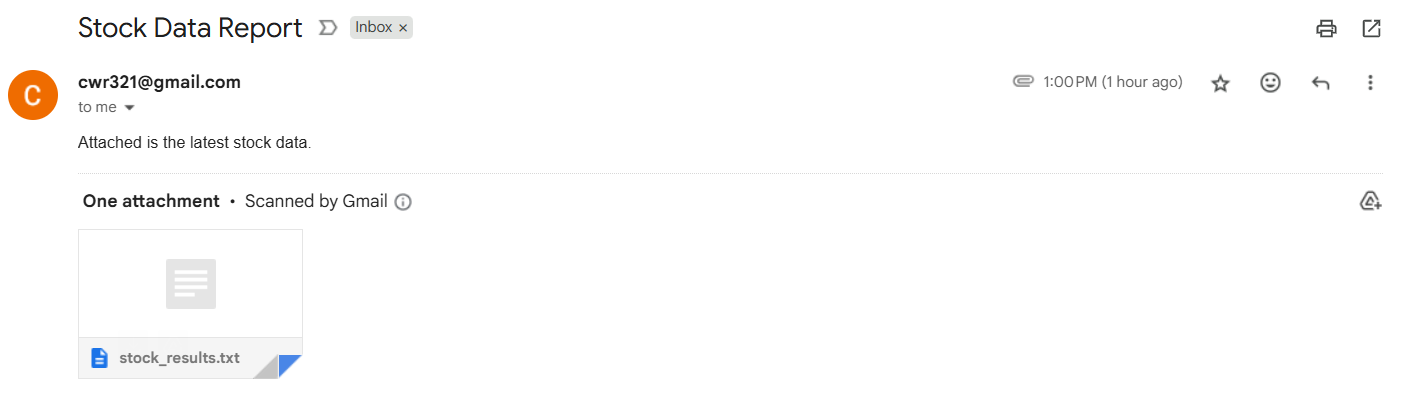
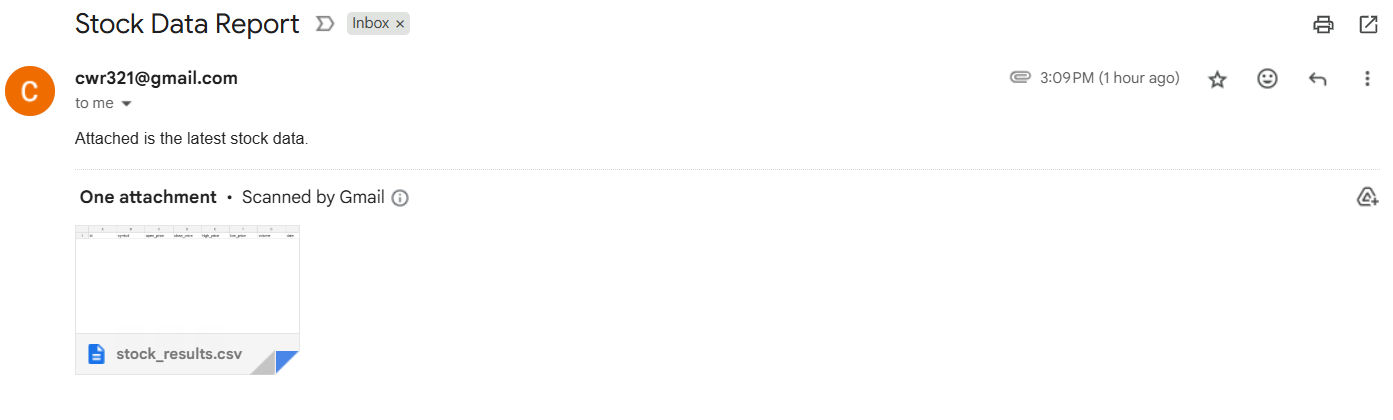
visuals added to output and email

diff --git a/dags/scripts/analyze_buy_signals.py b/dags/scripts/analyze_buy_signals.py
@@ -1,0 +1,73 @@
+import pandas as pd
+import matplotlib.pyplot as plt
+import seaborn as sns
+import os
+
+# Create output directory if it doesn't exist
+os.makedirs("output", exist_ok=True)
+
+# Path to the CSV generated by your DAG
+csv_path = "/opt/airflow/volumes/output/stock_buy_signals.csv"
+
+if not os.path.exists(csv_path):
+    raise FileNotFoundError(f"{csv_path} not found. Make sure the DAG has run and generated the CSV.")
+
+# Load data
+df = pd.read_csv(csv_path)
+df.columns = df.columns.str.strip()  # Clean column names
+df['date'] = pd.to_datetime(df['date'])
+df = df.sort_values(by=['symbol', 'date'])
+
+# Calculate forward-looking returns for multiple horizons
+horizons = [1, 5, 10, 20, 30]
+for h in horizons:
+    col_name = f'return_{h}d'
+    # pct_change over period h, shifted backward by h days for forward return
+    df[col_name] = df.groupby('symbol')['close_price'].pct_change(periods=h).shift(-h)
+
+# Ensure buy_signal column exists
+if 'buy_signal' not in df.columns:
+    df['buy_signal'] = False
+
+# Summarize returns with count, avg, median, and win rate
+def summarize_returns(df, return_col):
+    filtered = df.dropna(subset=[return_col])
+    summary = filtered.groupby('buy_signal').agg(
+        count=(return_col, 'size'),
+        avg_return=(return_col, 'mean'),
+        median_return=(return_col, 'median'),
+        win_rate=(return_col, lambda x: (x > 0).mean())
+    ).reset_index()
+    summary['return_period'] = return_col
+    return summary
+
+# Collect summaries for all horizons
+summary_list = [summarize_returns(df, f'return_{h}d') for h in horizons]
+summary = pd.concat(summary_list, ignore_index=True)
+
+# Save summary to CSV for record
+summary.to_csv("output/buy_signal_return_summary.csv", index=False)
+
+# Plot Average Return by Buy Signal
+plt.figure(figsize=(12,6))
+sns.barplot(data=summary, x='return_period', y='avg_return', hue='buy_signal')
+plt.title("Average Return by Buy Signal and Return Period")
+plt.xlabel("Return Period")
+plt.ylabel("Average Return (fraction)")
+plt.xticks(rotation=45)
+plt.tight_layout()
+plt.savefig("/opt/airflow/volumes/output/avg_return_by_buy_signal.png")
+plt.close()
+
+# Plot Win Rate by Buy Signal
+plt.figure(figsize=(12,6))
+sns.barplot(data=summary, x='return_period', y='win_rate', hue='buy_signal')
+plt.title("Win Rate by Buy Signal and Return Period")
+plt.xlabel("Return Period")
+plt.ylabel("Win Rate (fraction)")
+plt.xticks(rotation=45)
+plt.tight_layout()
+plt.savefig("/opt/airflow/volumes/output/win_rate_by_buy_signal.png")
+plt.close()
+
+print("✅ Analysis complete. Plots saved to output/")

diff --git a/dags/kafka_stock_dag.py b/dags/kafka_stock_dag.py
@@ -98,13 +98,36 @@ def fetch_stock_data():
         'volume', 'date', 'SMA_10', 'SMA_50', 'RSI', 'MACD', 'Signal', 'buy_signal'
     ]
 
-    result_file = "/opt/airflow/volumes/output/stock_results.csv" 
+    result_file = "/opt/airflow/volumes/output/stock_buy_signals.csv" 
     with open(result_file, mode="w", newline="") as f:
         writer = csv.writer(f)
         writer.writerow(headers)
         writer.writerows(rows)
 
     return result_file
+
+def run_analysis():
+    try:
+        print_env_info()
+        result = subprocess.run(
+            ["python3", "/opt/airflow/dags/scripts/analyze_buy_signals.py"],
+            stdout=subprocess.PIPE,
+            stderr=subprocess.PIPE,
+            text=True,
+            check=True,
+            timeout=120
+        )
+        logging.info(f"[Analysis STDOUT]\n{result.stdout}")
+        logging.error(f"[Analysis STDERR]\n{result.stderr}")
+    except subprocess.TimeoutExpired:
+        logging.error("Analysis script timed out after 120 seconds")
+        raise
+    except subprocess.CalledProcessError as e:
+        logging.error(f"Analysis error (non-zero exit): {e.stderr}")
+        raise
+    except Exception as ex:
+        logging.error(f"Unexpected error running analysis: {str(ex)}")
+        raise
 
 producer_task = PythonOperator(
     task_id='run_kafka_producer',
@@ -125,14 +148,26 @@ fetch_task = PythonOperator(
     trigger_rule=TriggerRule.ALL_SUCCESS,
 )
 
+analysis_task = PythonOperator(
+    task_id='run_analysis_script',
+    python_callable=run_analysis,
+    dag=dag,
+    trigger_rule=TriggerRule.ALL_SUCCESS,
+)
+
 email_task = EmailOperator(
     task_id='send_email',
     to='cwr321@gmail.com',
     subject='Stock Data Report',
     html_content='Attached is the latest stock data.',
-    files=['/opt/airflow/volumes/output/stock_results.csv'],
+    files=[
+        '/opt/airflow/volumes/output/stock_buy_signals.csv',
+        '/opt/airflow/volumes/output/avg_return_by_buy_signal.png',
+        '/opt/airflow/volumes/output/win_rate_by_buy_signal.png'
+    ],
     trigger_rule=TriggerRule.ALL_DONE,
     dag=dag,
 )
 
-producer_task >> consumer_task >> fetch_task >> email_task
+
+producer_task >> consumer_task >> fetch_task >> analysis_task >> email_task

diff --git a/dags/scripts/producer.py b/dags/scripts/producer.py
@@ -9,7 +9,7 @@ import time
 
 
 # Configuration
-API_KEY = 'M1D7S2117PSVU5OW'  # Ensure you set your API key as an environment variable
+API_KEY = '6C6LVKV6DQPBEAAW'  # Ensure you set your API key as an environment variable
 ALPHA_VANTAGE_URL = "https://www.alphavantage.co/query"
 KAFKA_BROKER = 'kafka:9092'  # Your Kafka broker
 TOPIC = 'stock_data'  # Kafka topic where the stock data will be sent

diff --git a/dags/scripts/consumer.py b/dags/scripts/consumer.py
@@ -14,7 +14,7 @@ for attempt in range(10):
     try:
         consumer = KafkaConsumer(
             'stock_data',
-            group_id='stock-consumer-group',
+            group_id='new_consumer_group',
             bootstrap_servers=['kafka:9092'],
             auto_offset_reset='earliest',
             enable_auto_commit=False,
